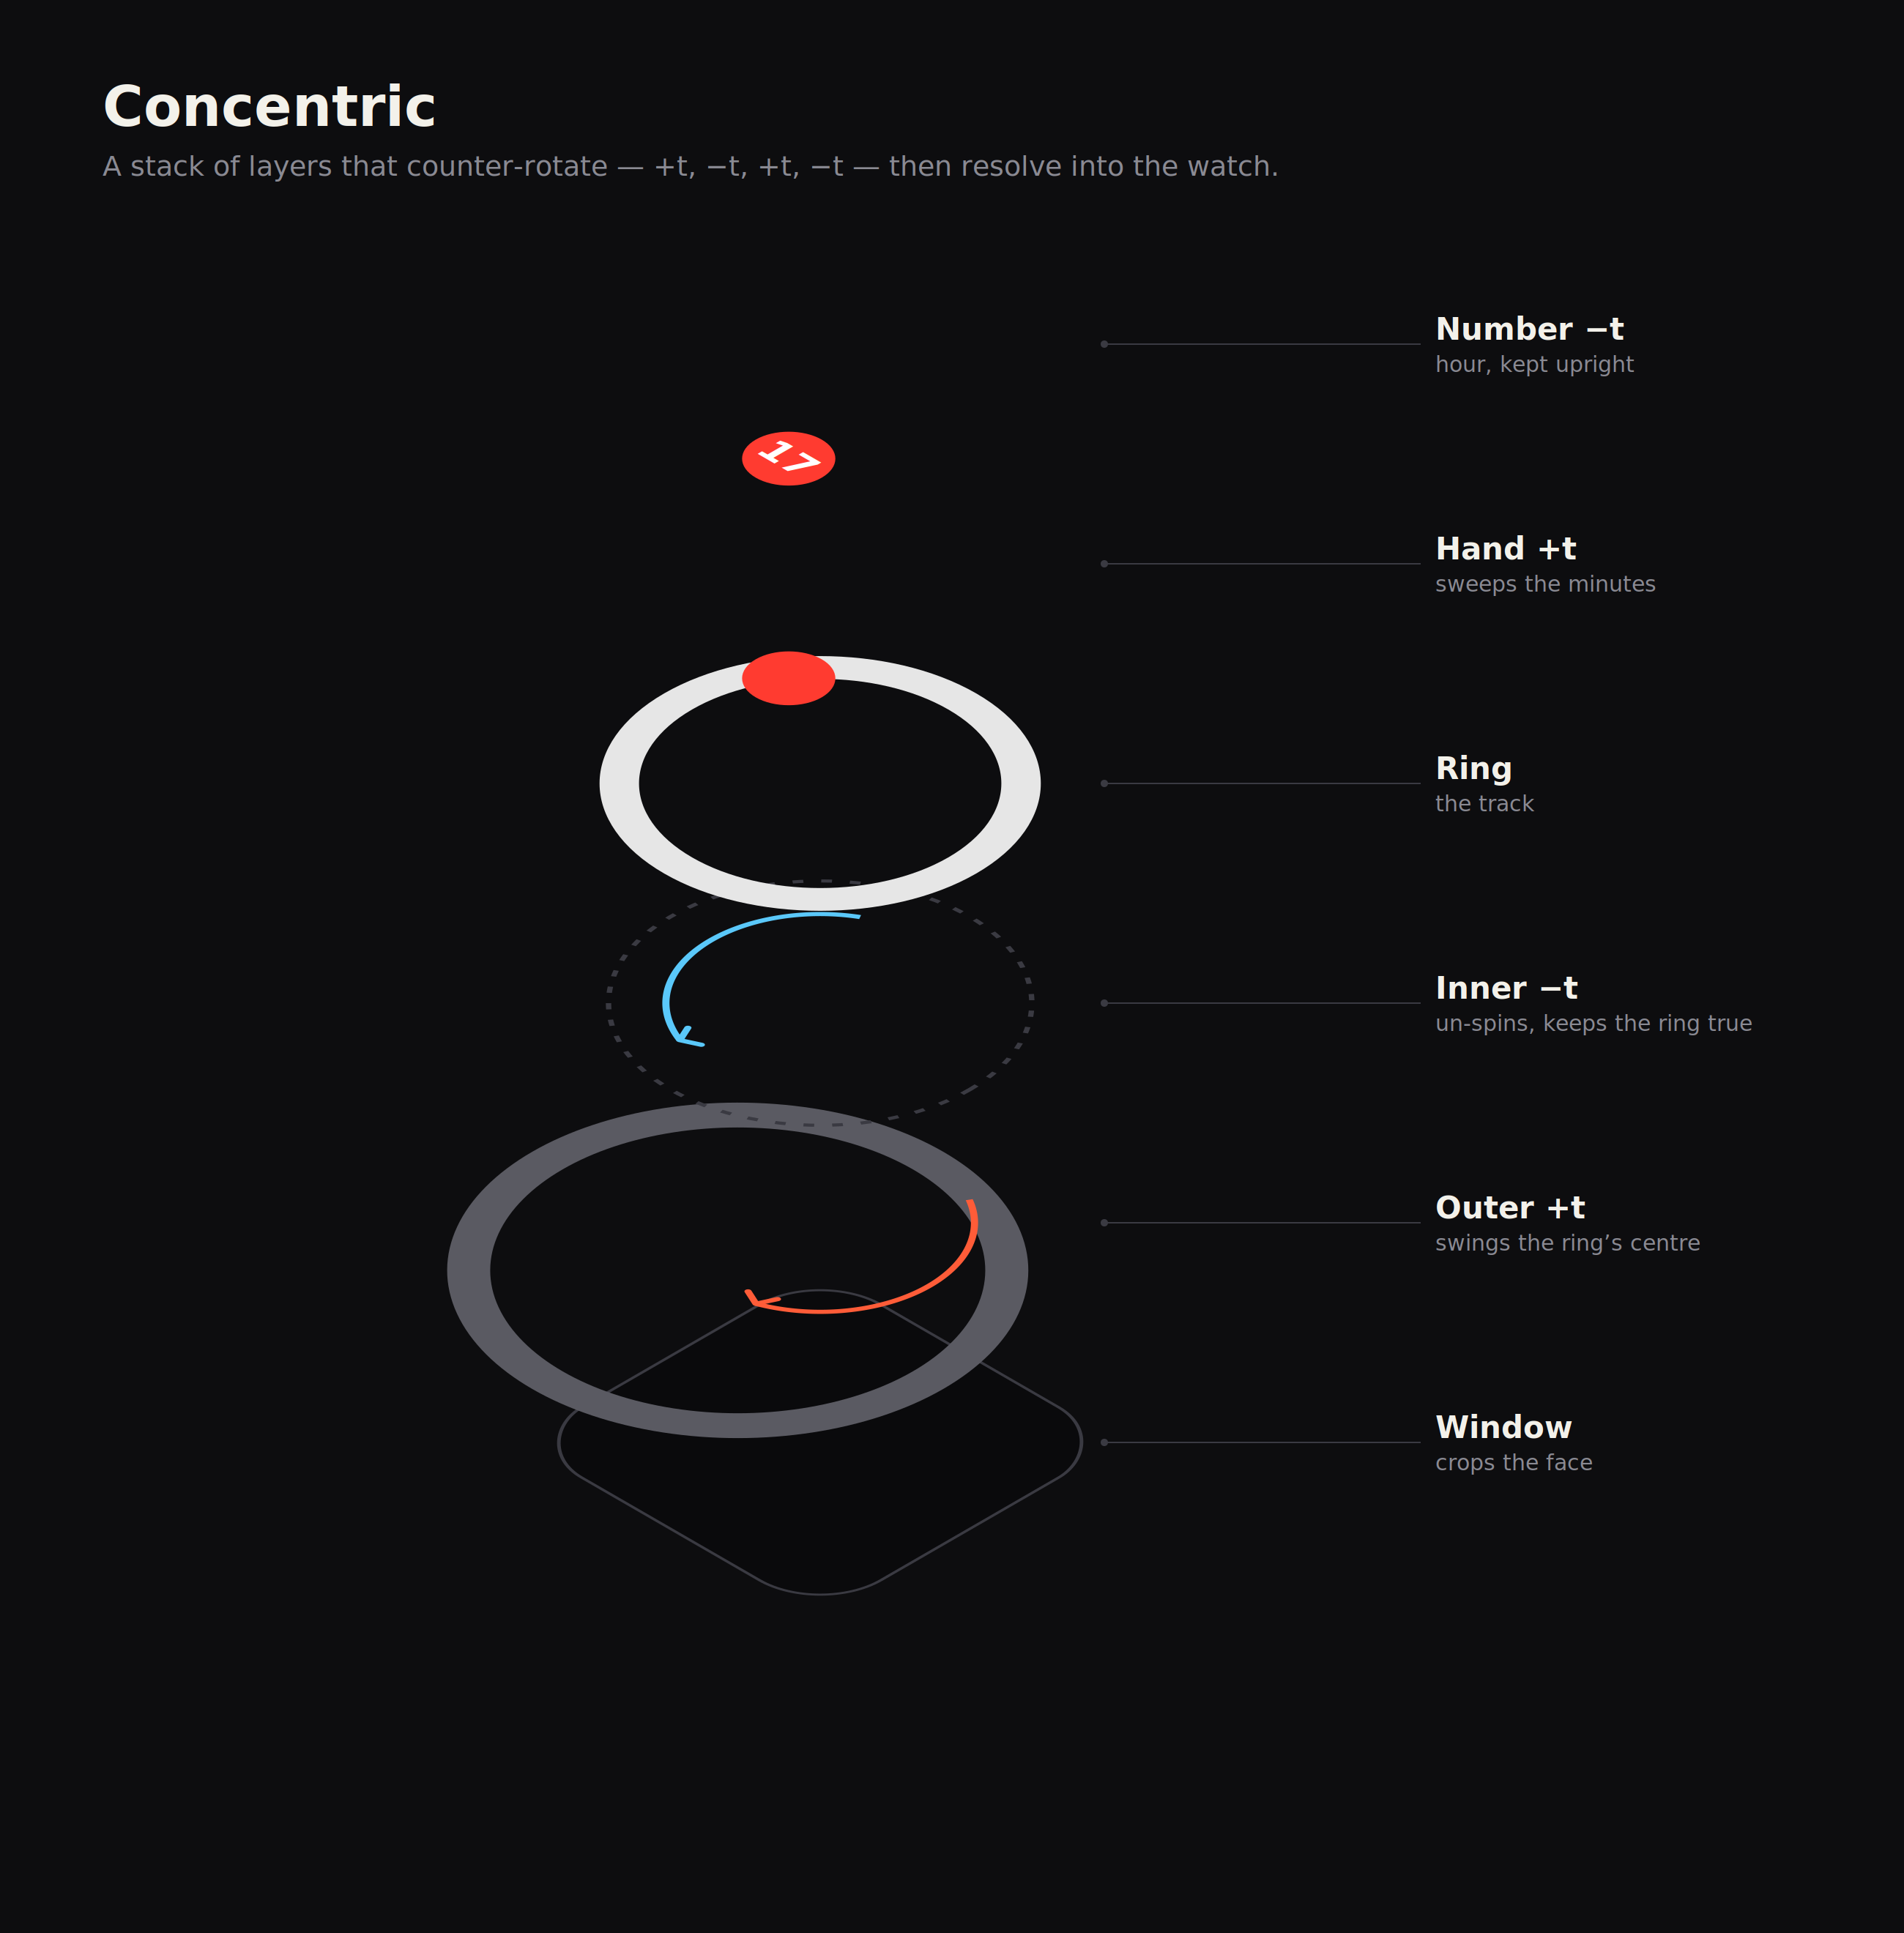
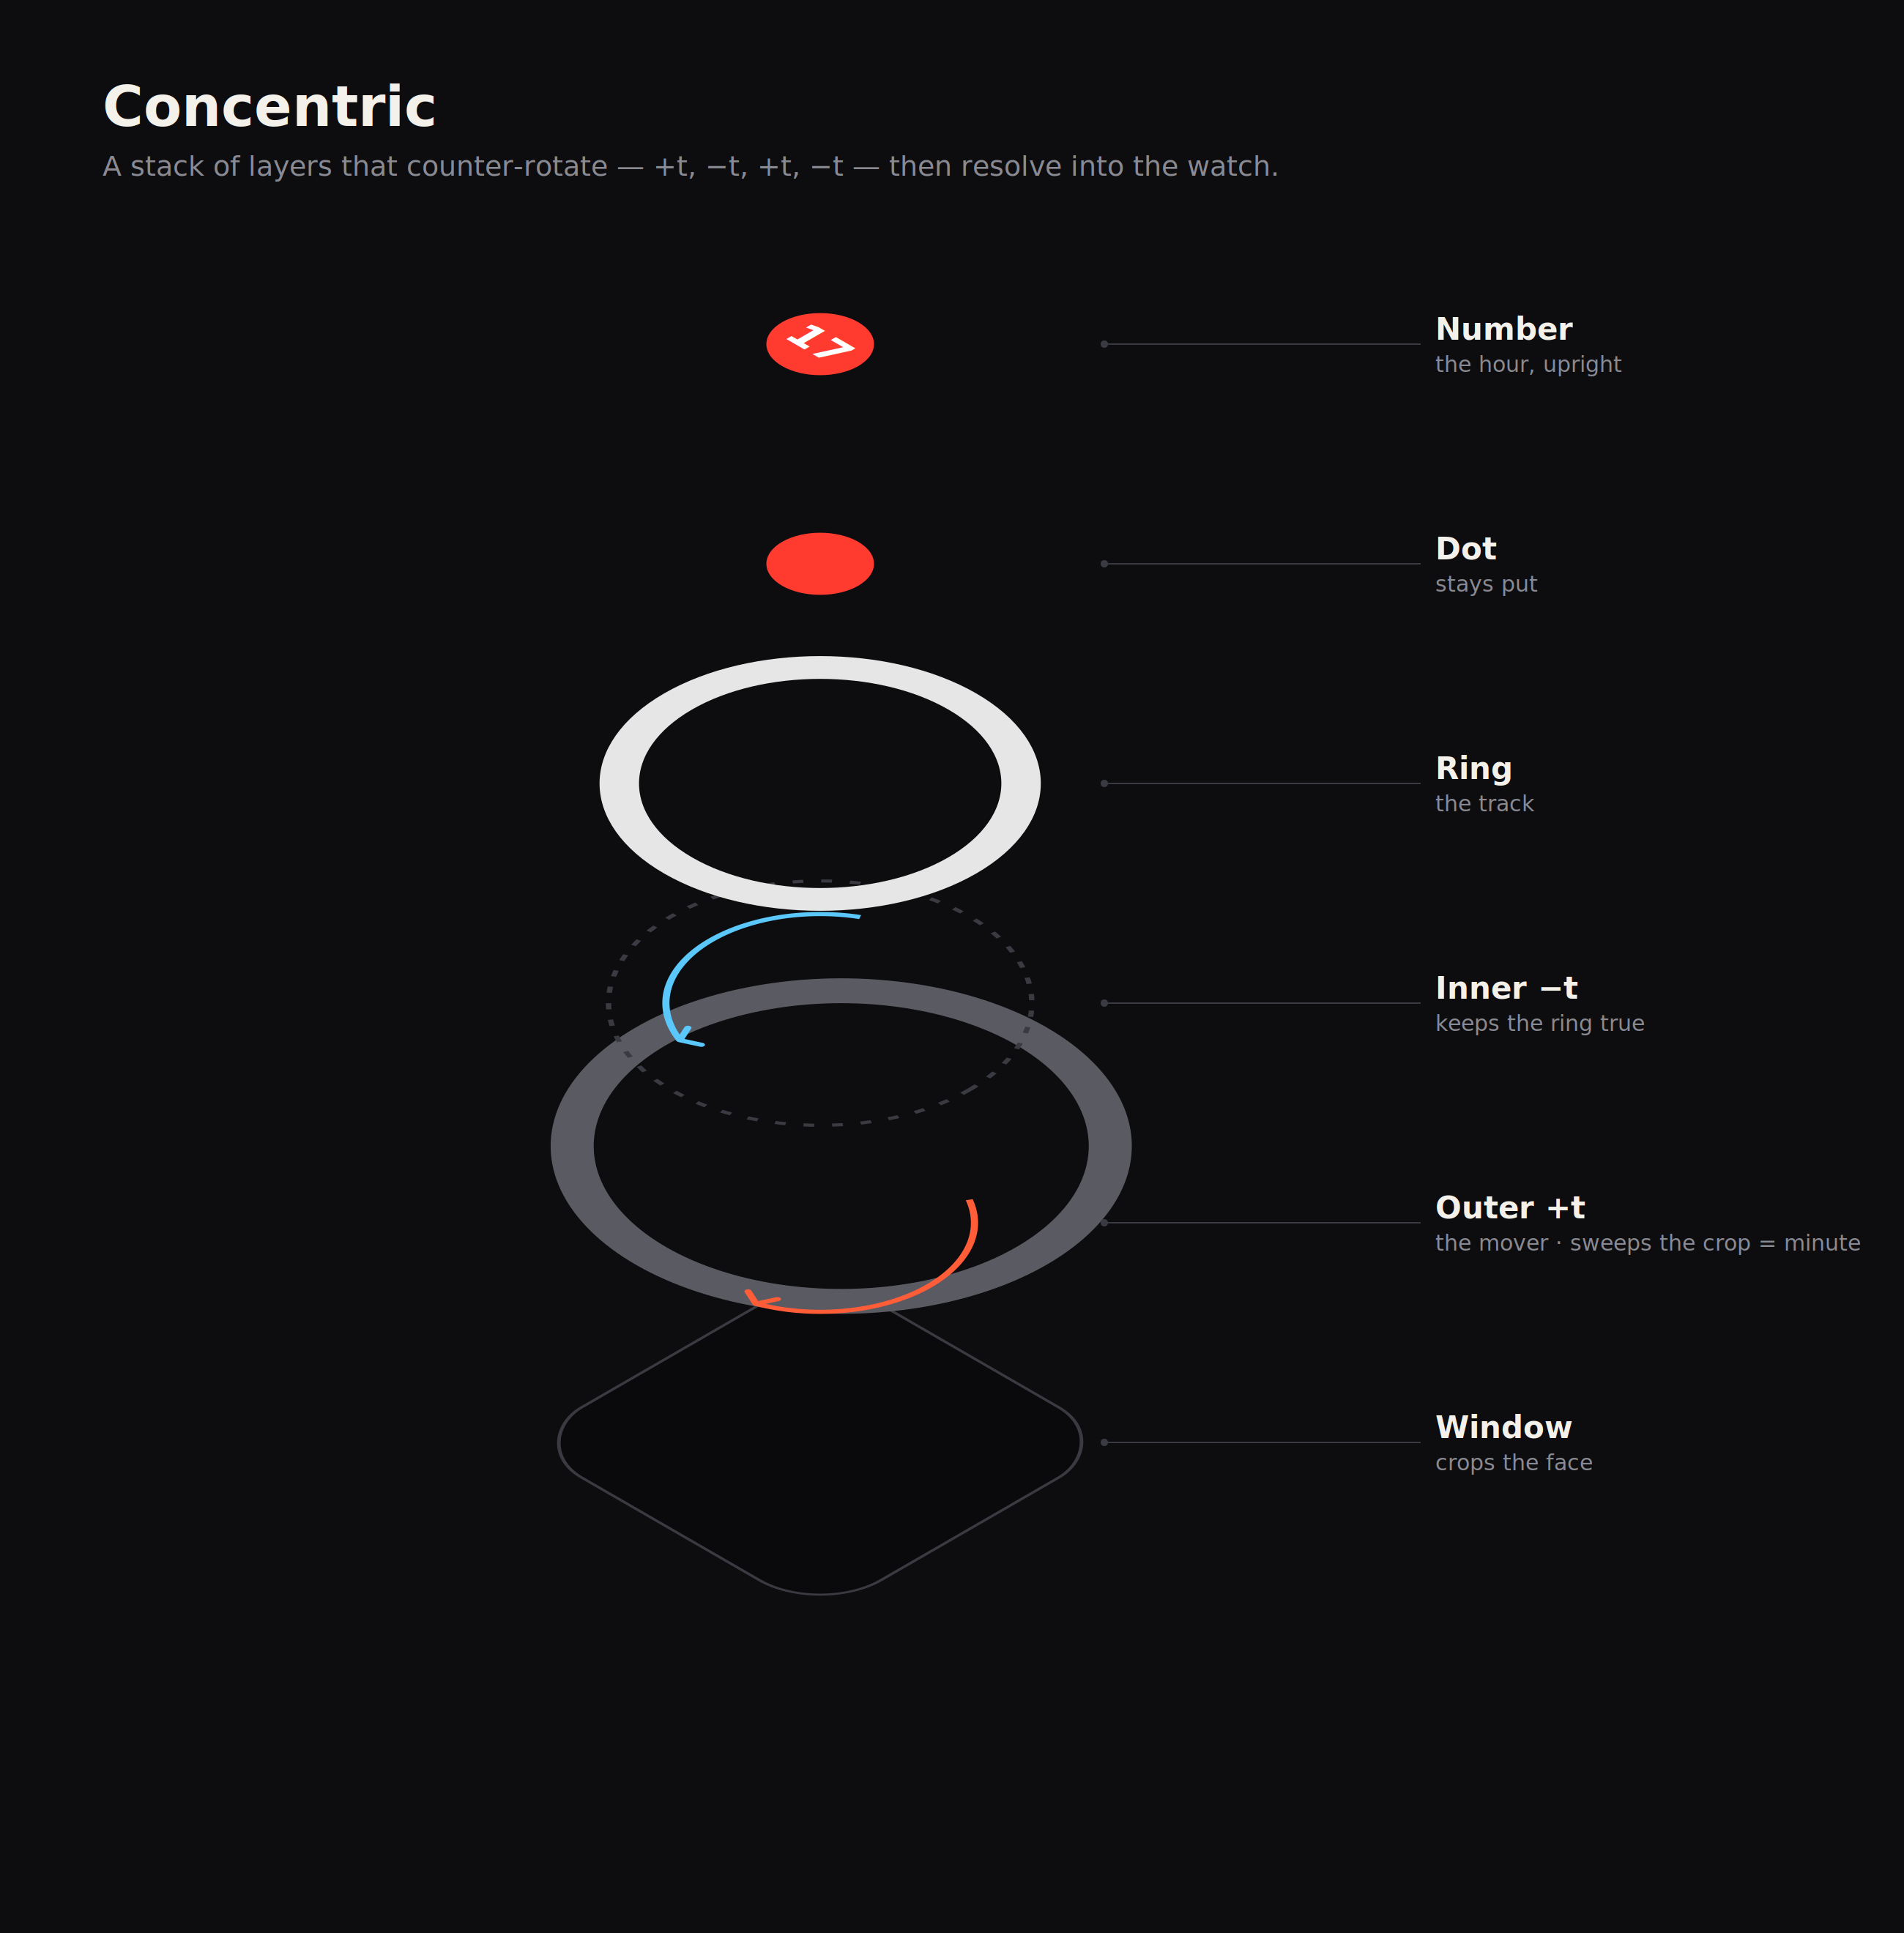
Concentric: correct mechanism — dot fixed, ring's crop does the reading
- Diagram + live clock: the dot stays put (centre, hour); the offset ring
  rotates so its crop sweeps = the minute (per the design intent)
- Live clock gains a Live / Time-warp toggle (warp fast-forwards the sweep)
- Hour now always visible; relabel levels + copy accordingly

diff --git a/concentric/index.html b/concentric/index.html
@@ -63,12 +63,15 @@
     /* ---- live Concentric clock (faithful port) ---- */
     .clock-demo{display:flex;flex-direction:column;align-items:center;gap:12px;margin:14px 0 0}
     .concentric-watch{width:280px;height:280px;border-radius:56px;overflow:hidden;background:#000;position:relative}
-    .concentric-outer{width:560px;height:560px;position:absolute;top:140px;left:-140px;transform-origin:280px 0px;transition:transform .5s ease-out}
-    .concentric-inner{width:560px;height:560px;position:relative;transform-origin:280px 280px;transition:transform .5s ease-out}
+    .concentric-ring{width:560px;height:560px;position:absolute;top:140px;left:-140px;transform-origin:280px 0px;transition:transform .5s ease-out}
     .concentric-svg{width:560px;height:560px}
-    .concentric-dot{position:absolute;width:90px;height:90px;background:rgba(255,59,48,.95);border-radius:50%;top:-15px;left:235px;
-      display:flex;align-items:center;justify-content:center;transition:transform .5s ease-out}
-    .concentric-hour{color:#fff;font-family:-apple-system,system-ui,sans-serif;font-size:40px;font-weight:600;transition:transform .5s ease-out}
+    .concentric-dot{position:absolute;width:92px;height:92px;background:rgba(255,59,48,.95);border-radius:50%;top:94px;left:94px;
+      display:flex;align-items:center;justify-content:center}   /* fixed, centred */
+    .concentric-hour{color:#fff;font-family:-apple-system,system-ui,sans-serif;font-size:40px;font-weight:600}
+    .concentric-watch.warp .concentric-ring{transition:transform .12s linear}
+    .c-controls{display:flex;gap:8px}
+    .c-toggle{font-size:12px;color:var(--muted);background:#ffffff10;border:1px solid var(--line);border-radius:999px;padding:6px 16px;cursor:pointer}
+    .c-toggle.on{background:rgba(255,92,56,.16);border-color:var(--accent);color:var(--accent)}
     .clock-now{font-variant-numeric:tabular-nums;color:var(--muted);font-size:13px;letter-spacing:.04em}
     @media(max-width:360px){ .concentric-watch{transform:scale(.86)} }
   </style>
@@ -86,12 +89,14 @@
       <p class="lead">An ambient watch you read by intuition — built from counter-rotating layers and a moving crop.</p>
       <div class="clock-demo">
         <div class="concentric-watch" id="concentric">
-          <div class="concentric-outer" id="c-outer">
-            <div class="concentric-inner" id="c-inner">
-              <svg class="concentric-svg" viewBox="0 0 560 560"><circle cx="280" cy="280" r="250" fill="none" stroke="#e6e6e6" stroke-width="44"/></svg>
-              <div class="concentric-dot" id="c-dot"><span class="concentric-hour" id="c-hour"></span></div>
-            </div>
+          <div class="concentric-ring" id="c-ring">
+            <svg class="concentric-svg" viewBox="0 0 560 560"><circle cx="280" cy="280" r="250" fill="none" stroke="#e6e6e6" stroke-width="44"/></svg>
           </div>
+          <div class="concentric-dot"><span class="concentric-hour" id="c-hour"></span></div>
+        </div>
+        <div class="c-controls">
+          <button id="c-live" class="c-toggle on" type="button">Live</button>
+          <button id="c-warp" class="c-toggle" type="button">Time warp</button>
         </div>
         <p class="clock-now" id="c-now">live · your time</p>
       </div>
@@ -114,7 +119,7 @@
       <p class="kicker">How it's built</p>
       <h2>Counter-rotating layers</h2>
       <p class="pull">Each layer turns the opposite way to the one above it — +t, −t, +t, −t. The spins cancel where they should and survive where they shouldn't.</p>
-      <p>The <span class="em">Outer</span> layer carries an oversized, off-centre ring and rotates one turn per hour; because the ring's centre is offset, that spin swings the visible crescent — the <span class="em">crop</span> — around the face. The <span class="em">Inner</span> layer counter-rotates to cancel the spin, so the ring stays a clean circle instead of tumbling. The <span class="em">hand</span> rides the ring to mark the minute, and the <span class="em">number</span> counter-rotates again so the hour always sits upright.</p>
+      <p>The <span class="em">Outer</span> layer carries an oversized, off-centre ring and rotates one turn per hour; because the ring's centre is offset, that spin swings the visible crescent — the <span class="em">crop</span> — around the face. The <span class="em">Inner</span> layer counter-rotates to cancel the spin, so the ring stays a clean circle instead of tumbling. The <span class="em">dot</span> sits still in the centre showing the hour — you read the minute from where the crop falls. The counter-rotations are precisely what hold the dot fixed and upright while the ring does the work.</p>
 
       <figure>
         <div class="figbox">
@@ -130,11 +135,11 @@
 
       <ul class="levels">
         <li><span class="rot zero">fixed</span><div><b>Window</b> — <span>the rounded square that crops everything below</span></div></li>
-        <li><span class="rot pos">+t</span><div><b>Outer</b> — <span>swings the offset ring's centre → moves the crop</span></div></li>
+        <li><span class="rot pos">+t</span><div><b>Outer</b> — <span>swings the offset ring → the crop you read for the minute</span></div></li>
         <li><span class="rot neg">−t</span><div><b>Inner</b> — <span>cancels the spin so the ring stays true</span></div></li>
         <li><span class="rot zero">—</span><div><b>Ring</b> — <span>the white track</span></div></li>
-        <li><span class="rot pos">+t</span><div><b>Hand</b> — <span>rides the ring to mark the minute</span></div></li>
-        <li><span class="rot neg">−t</span><div><b>Number</b> — <span>the hour, kept upright</span></div></li>
+        <li><span class="rot zero">fixed</span><div><b>Dot</b> — <span>stays in the centre, shows the hour</span></div></li>
+        <li><span class="rot neg">−t</span><div><b>Number</b> — <span>held upright by the counter-spins</span></div></li>
       </ul>
     </section>
 
@@ -165,20 +170,24 @@
       a.addEventListener('click',function(){show(true)});
       s.addEventListener('click',function(){show(false)});
     })();
-    // live clock — faithful counter-rotation
+    // live clock — fixed dot, rotating ring (crop does the reading), with Time warp
     (function(){
-      var outer=document.getElementById('c-outer'),inner=document.getElementById('c-inner'),
-          dot=document.getElementById('c-dot'),hour=document.getElementById('c-hour'),now=document.getElementById('c-now');
-      function tick(){
-        var d=new Date(), t=d.getMinutes()*6;
-        outer.style.transform='rotate('+t+'deg)';
-        inner.style.transform='rotate('+(-t)+'deg)';
-        dot.style.transform='rotate('+t+'deg)';
-        hour.style.transform='rotate('+(-t)+'deg)';
-        hour.textContent=((d.getHours()%12)||12);
-        now.textContent='live · '+d.toLocaleTimeString([], {hour:'2-digit',minute:'2-digit'});
-      }
-      tick(); setInterval(tick,1000);
+      var ring=document.getElementById('c-ring'),hour=document.getElementById('c-hour'),now=document.getElementById('c-now'),
+          watch=document.getElementById('concentric'),liveBtn=document.getElementById('c-live'),warpBtn=document.getElementById('c-warp');
+      var warp=false, e=0, timer=null;
+      function pad(n){return (n<10?'0':'')+n;}
+      function paint(t,h,label){ ring.style.transform='rotate('+t+'deg)'; hour.textContent=h; now.textContent=label; }
+      function tickLive(){ var d=new Date(); paint(d.getMinutes()*6, ((d.getHours()%12)||12),
+        'live · '+d.toLocaleTimeString([], {hour:'2-digit',minute:'2-digit'})); }
+      function tickWarp(){ var h=(Math.floor(e/60)%12)||12; paint((e%60)*6, h,
+        'time warp · '+pad(Math.floor(e/60)%24)+':'+pad(e%60)); e++; }
+      function setMode(w){ warp=w; watch.classList.toggle('warp',w);
+        liveBtn.classList.toggle('on',!w); warpBtn.classList.toggle('on',w);
+        clearInterval(timer);
+        if(w){ e=0; tickWarp(); timer=setInterval(tickWarp,120); }
+        else { tickLive(); timer=setInterval(tickLive,1000); } }
+      liveBtn.onclick=function(){setMode(false)}; warpBtn.onclick=function(){setMode(true)};
+      setMode(false);
     })();
   </script>
 </body>

diff --git a/concentric/build_diagram.py b/concentric/build_diagram.py
@@ -26,7 +26,7 @@ def arc_arrow(cx,cy,r,a0,a1,col,w=4):
 # ---- level drawers (flat 280 box) ----
 def L_window(t): return f'<rect x="22" y="22" width="236" height="236" rx="48" fill="#0a0a0c" stroke="{FAINT}" stroke-width="2"/>'
 def L_outer(t):
-    g=f'<circle cx="140" cy="205" r="150" fill="none" stroke="#5a5a62" stroke-width="24"/>'
+    g=f'<g transform="rotate({t} 140 140)"><circle cx="140" cy="215" r="150" fill="none" stroke="#5a5a62" stroke-width="24"/></g>'
     g+=arc_arrow(140,140,86, -60, -60+min(150,t*0.9), ACC,4)
     return g
 def L_inner(t):
@@ -35,34 +35,27 @@ def L_inner(t):
     return g
 def L_ring(t): return f'<circle cx="140" cy="140" r="112" fill="none" stroke="{WHITE}" stroke-width="22"/>'
 def L_dot(t):
-    a=math.radians(-90 + t)  # orbit from 12 o'clock, +t
-    x=140+112*math.cos(a); y=140+112*math.sin(a)
-    return f'<circle cx="{x:.1f}" cy="{y:.1f}" r="26" fill="{RED}"/>'
+    return f'<circle cx="140" cy="140" r="30" fill="{RED}"/>'      # fixed — does not move
 def L_number(t):
-    a=math.radians(-90 + t); x=140+112*math.cos(a); y=140+112*math.sin(a)
-    return (f'<circle cx="{x:.1f}" cy="{y:.1f}" r="26" fill="{RED}"/>'
-            f'<text x="{x:.1f}" y="{y:.1f}" fill="#fff" font-family="-apple-system,sans-serif" font-size="26" font-weight="600" text-anchor="middle" dominant-baseline="central">17</text>')
+    return (f'<circle cx="140" cy="140" r="30" fill="{RED}"/>'
+            f'<text x="140" y="140" fill="#fff" font-family="-apple-system,sans-serif" font-size="28" font-weight="600" text-anchor="middle" dominant-baseline="central">17</text>')
 
 LEVELS=[
  ("window","Window","crops the face", L_window),
- ("outer","Outer  +t","swings the ring’s centre", L_outer),
- ("inner","Inner  −t","un-spins, keeps the ring true", L_inner),
+ ("outer","Outer  +t","the mover · sweeps the crop = minute", L_outer),
+ ("inner","Inner  −t","keeps the ring true", L_inner),
  ("ring","Ring","the track", L_ring),
- ("dot","Hand  +t","sweeps the minutes", L_dot),
- ("number","Number  −t","hour, kept upright", L_number),
+ ("dot","Dot","stays put", L_dot),
+ ("number","Number","the hour, upright", L_number),
 ]
 
 # faithful assembled watch (iso + clip), scale k
 def assembled(t, k):
-    tt=t
-    inner=f'''<g transform="rotate({tt} 140 140)"><g transform="translate(-140 140)"><g transform="rotate({-tt} 280 280)">
-      <circle cx="280" cy="280" r="250" fill="none" stroke="{WHITE}" stroke-width="44"/>
-      <g transform="rotate({tt} 280 30)"><circle cx="280" cy="30" r="45" fill="{RED}"/>
-      <text x="280" y="30" transform="rotate({-tt} 280 30)" fill="#fff" font-family="-apple-system,sans-serif" font-size="40" font-weight="600" text-anchor="middle" dominant-baseline="central">17</text></g>
-    </g></g></g>'''
+    ring=f'<g transform="rotate({t} 140 140)"><g transform="translate(-140 140)"><circle cx="280" cy="280" r="250" fill="none" stroke="{WHITE}" stroke-width="44"/></g></g>'
+    dot=f'<circle cx="140" cy="140" r="46" fill="{RED}"/><text x="140" y="140" fill="#fff" font-family="-apple-system,sans-serif" font-size="42" font-weight="600" text-anchor="middle" dominant-baseline="central">17</text>'
     return (f'<g transform="scale({k})"><defs><clipPath id="win"><rect x="0" y="0" width="280" height="280" rx="56"/></clipPath></defs>'
             f'<rect x="0" y="0" width="280" height="280" rx="56" fill="#000" stroke="{LINE}"/>'
-            f'<g clip-path="url(#win)">{inner}</g></g>')
+            f'<g clip-path="url(#win)">{ring}</g>{dot}</g>')
 
 Wn,Hn=1300,1320
 E0=560; baseY=470; GAP=150
@@ -94,7 +87,7 @@ def frame(p):
         k=1.7; wpx=280*k
         tx=(Wn-wpx)/2; ty=180
         svg.append(f'<g transform="translate({tx:.0f} {ty:.0f})" opacity="{asm:.2f}">{assembled(tt, k)}</g>')
-        svg.append(f'<text x="{Wn/2:.0f}" y="{ty+wpx+54:.0f}" fill="{INK}" font-family="-apple-system,sans-serif" font-size="23" font-weight="600" text-anchor="middle" opacity="{asm:.2f}">The crescent marks the minute; the hour rides up at the top of the hour, kept upright.</text>')
+        svg.append(f'<text x="{Wn/2:.0f}" y="{ty+wpx+54:.0f}" fill="{INK}" font-family="-apple-system,sans-serif" font-size="23" font-weight="600" text-anchor="middle" opacity="{asm:.2f}">The ring’s crop sweeps with the minute; the dot stays put, showing the hour.</text>')
     svg.append('</svg>')
     return "\n".join(svg)
 